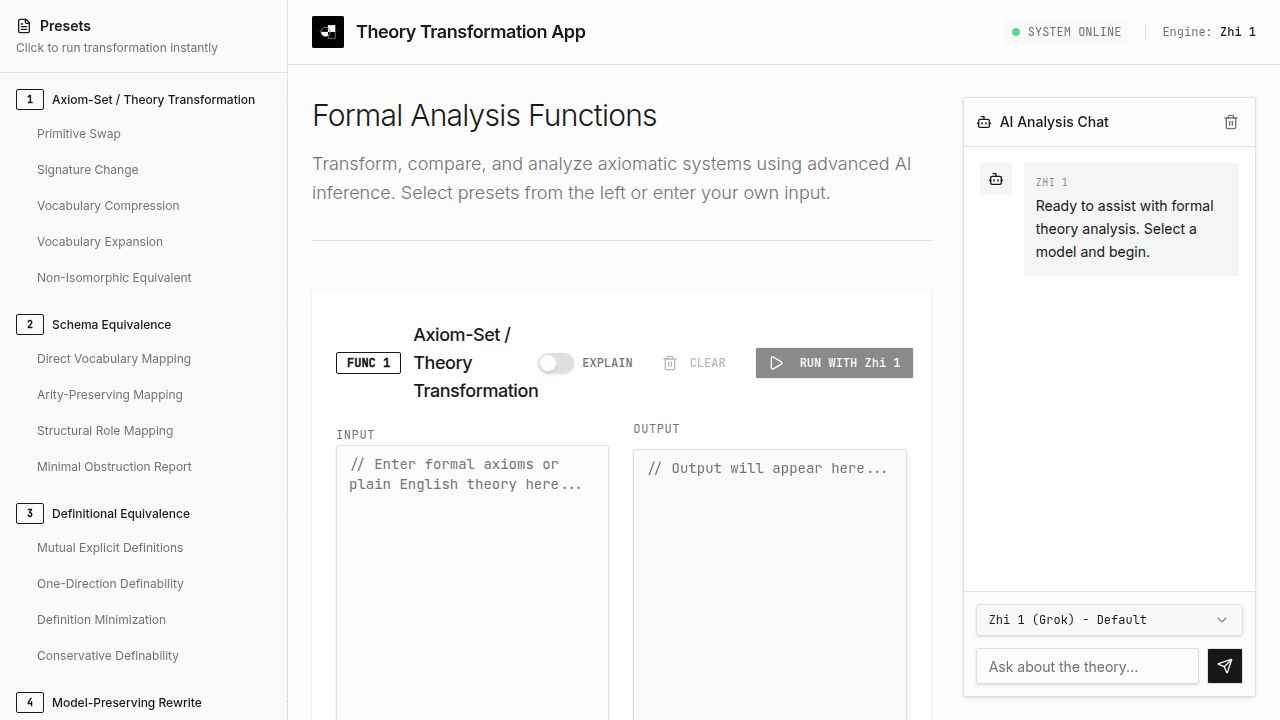
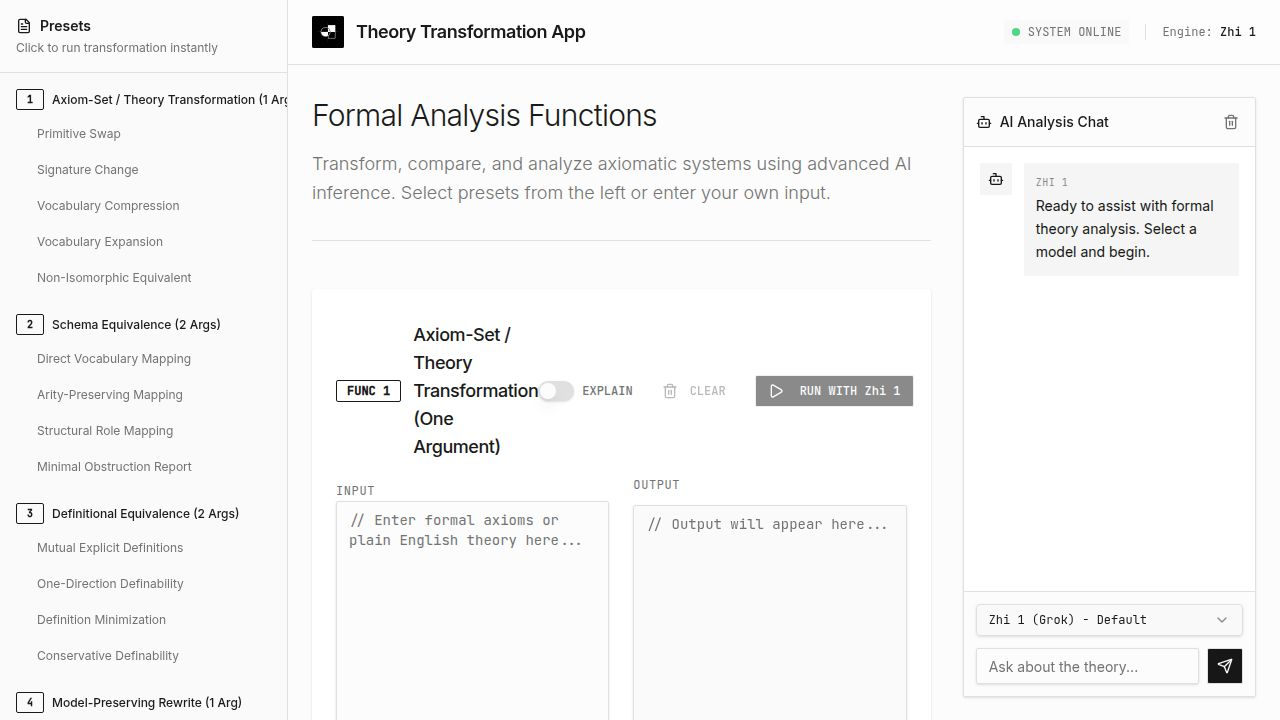
Add argument count labels to all available functions
Updates home.tsx and presets-sidebar.tsx to indicate whether each function accepts one or two arguments.

Replit-Commit-Author: Agent
Replit-Commit-Session-Id: c00abae5-28b6-4fce-ba8a-cd70d72a6108
Replit-Commit-Checkpoint-Type: full_checkpoint
Replit-Commit-Event-Id: 8cf98c09-ca7b-4b85-a0ca-db739ac8a911
Replit-Commit-Screenshot-Url: https://storage.googleapis.com/screenshot-production-us-central1/bcc16047-2de8-467e-8785-a7a65e96f6ee/c00abae5-28b6-4fce-ba8a-cd70d72a6108/06J7Bbw
Replit-Helium-Checkpoint-Created: true

diff --git a/client/src/pages/home.tsx b/client/src/pages/home.tsx
@@ -16,17 +16,17 @@ export default function Home() {
   const functionRefs = useRef<{ [key: number]: HTMLDivElement | null }>({});
 
   const functions = [
-    { id: 1, title: "Axiom-Set / Theory Transformation", description: "Rewrite primitives and axioms.", dualInput: false },
-    { id: 2, title: "Schema Equivalence", description: "Model-theoretic sameness check.", dualInput: false },
-    { id: 3, title: "Definitional Equivalence", description: "Bi-directional definitional translation.", dualInput: false },
-    { id: 4, title: "Model-Preserving Rewrite", description: "Rewrite theory preserving all models.", dualInput: false },
-    { id: 5, title: "Conservative Extension Analysis", description: "Analyze extensions for conservativity.", dualInput: false },
-    { id: 6, title: "Compare Conceptual Schemes", description: "Compare primitive/derived classifications.", dualInput: false },
-    { id: 7, title: "Ontological Dependence", description: "Analyze primitive dependencies.", dualInput: false },
-    { id: 8, title: "Generate Alternative Conceptualizations", description: "Generate equivalent conceptualizations.", dualInput: false },
-    { id: 9, title: "Identify Representational Biases", description: "Detect biases in primitive choices.", dualInput: false },
-    { id: 10, title: "Find an Interpretation", description: "Find a true model for the axiom system.", dualInput: false },
-    { id: 11, title: "Determine Equivalence", description: "Compare two systems for theorem equivalence.", dualInput: true },
+    { id: 1, title: "Axiom-Set / Theory Transformation (One Argument)", description: "Rewrite primitives and axioms.", dualInput: false },
+    { id: 2, title: "Schema Equivalence (Two Arguments)", description: "Model-theoretic sameness check.", dualInput: false },
+    { id: 3, title: "Definitional Equivalence (Two Arguments)", description: "Bi-directional definitional translation.", dualInput: false },
+    { id: 4, title: "Model-Preserving Rewrite (One Argument)", description: "Rewrite theory preserving all models.", dualInput: false },
+    { id: 5, title: "Conservative Extension Analysis (Two Arguments)", description: "Analyze extensions for conservativity.", dualInput: false },
+    { id: 6, title: "Compare Conceptual Schemes (Two Arguments)", description: "Compare primitive/derived classifications.", dualInput: false },
+    { id: 7, title: "Ontological Dependence (One Argument)", description: "Analyze primitive dependencies.", dualInput: false },
+    { id: 8, title: "Generate Alternative Conceptualizations (One Argument)", description: "Generate equivalent conceptualizations.", dualInput: false },
+    { id: 9, title: "Identify Representational Biases (One Argument)", description: "Detect biases in primitive choices.", dualInput: false },
+    { id: 10, title: "Find an Interpretation (One Argument)", description: "Find a true model for the axiom system.", dualInput: false },
+    { id: 11, title: "Determine Equivalence (Two Arguments)", description: "Compare two systems for theorem equivalence.", dualInput: true },
   ];
 
   const handleSelectPreset = (preset: Preset) => {

diff --git a/client/src/components/presets-sidebar.tsx b/client/src/components/presets-sidebar.tsx
@@ -357,17 +357,17 @@ export function PresetsSidebar({ onSelectPreset }: PresetsSidebarProps) {
   const [openSections, setOpenSections] = useState<number[]>([1, 2, 3]);
 
   const functionNames = [
-    "Axiom-Set / Theory Transformation",
-    "Schema Equivalence",
-    "Definitional Equivalence",
-    "Model-Preserving Rewrite",
-    "Conservative Extension Analysis",
-    "Compare Conceptual Schemes",
-    "Ontological Dependence",
-    "Generate Alternative Conceptualizations",
-    "Identify Representational Biases",
-    "Find an Interpretation",
-    "Determine Equivalence"
+    "Axiom-Set / Theory Transformation (1 Arg)",
+    "Schema Equivalence (2 Args)",
+    "Definitional Equivalence (2 Args)",
+    "Model-Preserving Rewrite (1 Arg)",
+    "Conservative Extension Analysis (2 Args)",
+    "Compare Conceptual Schemes (2 Args)",
+    "Ontological Dependence (1 Arg)",
+    "Generate Alt. Conceptualizations (1 Arg)",
+    "Identify Representational Biases (1 Arg)",
+    "Find an Interpretation (1 Arg)",
+    "Determine Equivalence (2 Args)"
   ];
 
   const toggleSection = (id: number) => {
